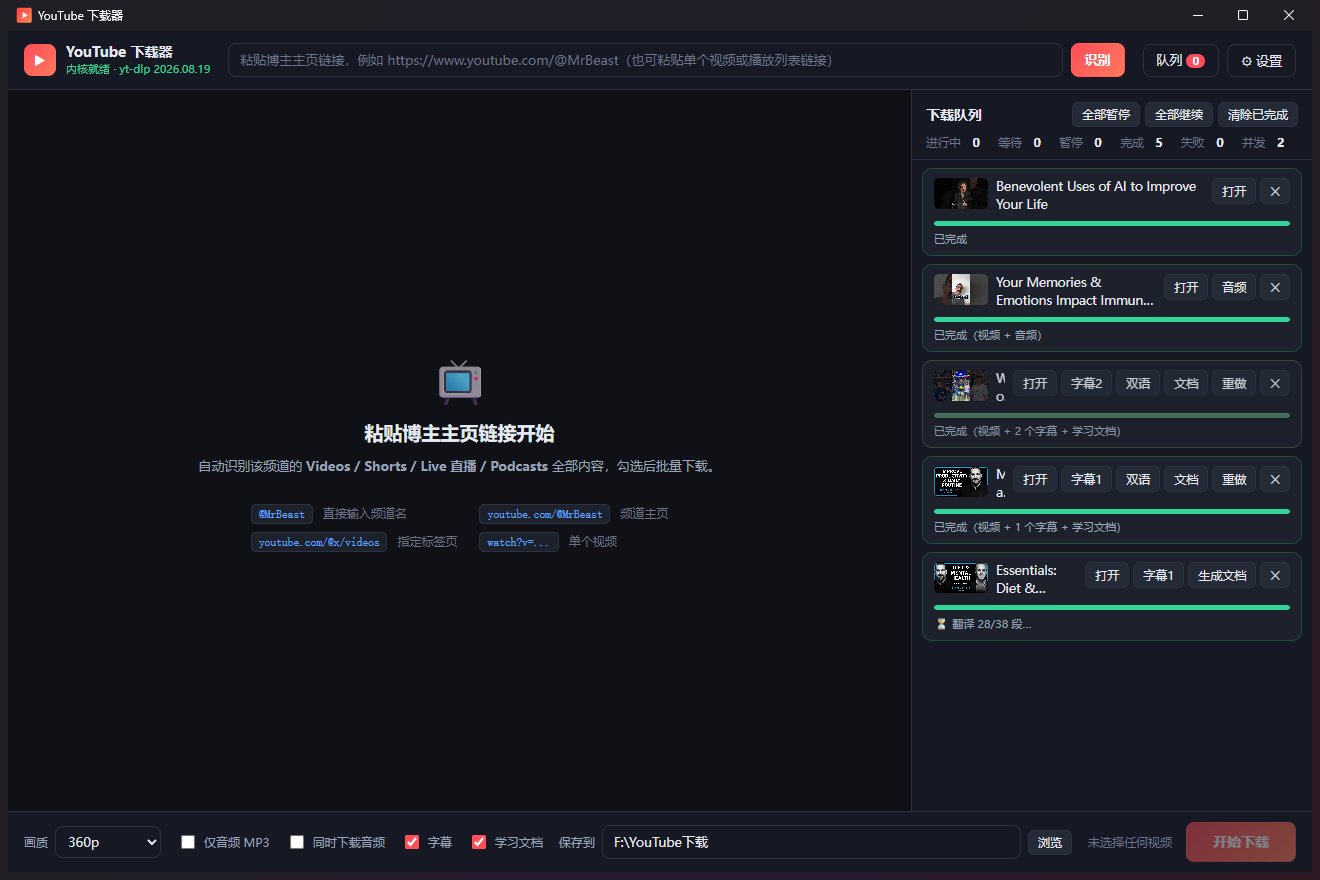
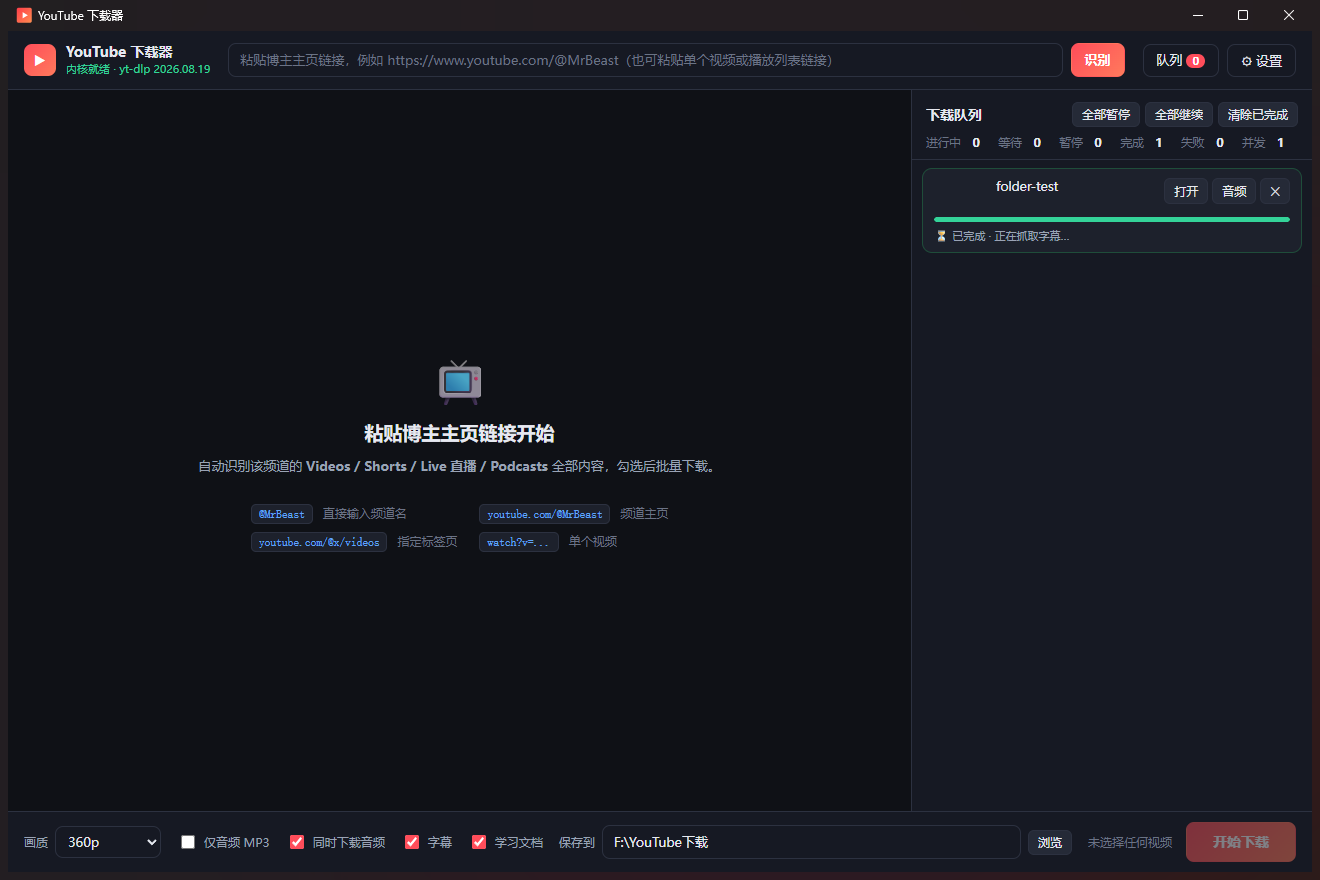
v1.3.0: 每个视频单独文件夹
- 命名模板拼成嵌套模板交给 yt-dlp 的 -o，自动建目录
- 视频/字幕/ASS/Word 共用同一模板，保证归入同一文件夹
- 设置里可关闭（organizeInFolder，默认开启）
- 模板无 %(ext)s 时退化为「模板目录/%(title)s.%(ext)s」
- 修复缩略图的行内 onerror 触发 CSP 违规（script-src 'self'），改用捕获阶段事件委托

Changed region(s): [[0.6833, 0.1841, 0.9939, 0.7364], [0.2174, 0.9511, 0.2485, 0.9818]]

diff --git a/src/renderer/app.js b/src/renderer/app.js
@@ -212,7 +212,7 @@ function rowHtml(it) {
 
   return `<div class="row ${selected ? 'selected' : ''}" data-id="${esc(it.id)}">
     <input type="checkbox" ${selected ? 'checked' : ''} data-check="${esc(it.id)}" />
-    <img class="row-thumb" loading="lazy" src="${esc(it.thumbnail || '')}" onerror="this.style.visibility='hidden'" />
+    <img class="row-thumb" loading="lazy" src="${esc(it.thumbnail || '')}" />
     <div class="row-main">
       <div class="row-title">${esc(it.title)}${badges.length ? ' ' + badges.join(' ') : ''}</div>
       <div class="row-meta">${meta.join('')}</div>
@@ -348,7 +348,7 @@ function renderQueue() {
       el.className = 'q-item';
       el.setAttribute('data-key', q.key);
       el.innerHTML = `<div class="q-top">
-          <img class="q-thumb" loading="lazy" onerror="this.style.visibility='hidden'" />
+          <img class="q-thumb" loading="lazy" />
           <div class="q-title"></div>
           <div class="q-actions"></div>
         </div>
@@ -545,6 +545,7 @@ async function loadSettingsToForm() {
   $('setConcurrency').value = s.concurrency || 2;
   $('setAutoRetry').value = s.autoRetry == null ? 3 : s.autoRetry;
   $('setFilename').value = s.filenameTemplate || '';
+  $('setOrganizeInFolder').checked = s.organizeInFolder !== false;
   $('setRateLimit').value = s.rateLimit || '';
   $('setProxy').value = s.proxy || '';
   $('setCookieFile').value = s.cookieFile || '';
@@ -665,6 +666,15 @@ function bind() {
       if (state.renderedCount < filteredItems().length) renderList(false);
     }
   });
+
+  // 缩略图加载失败时隐藏掉，避免显示成破图。
+  // 注意：CSP 是 script-src 'self'，行内 onerror="..." 会被拦截（实测报过 CSP 违规），
+  // 所以改用事件委托；error 事件不冒泡，必须用捕获阶段监听。
+  const hideBrokenImage = (e) => {
+    if (e.target && e.target.tagName === 'IMG') e.target.style.visibility = 'hidden';
+  };
+  $('list').addEventListener('error', hideBrokenImage, true);
+  $('queueList').addEventListener('error', hideBrokenImage, true);
 
   $('btnLoadMore').addEventListener('click', () => renderList(false));
 
@@ -863,6 +873,7 @@ function bind() {
       concurrency: Number($('setConcurrency').value) || 2,
       autoRetry: Number($('setAutoRetry').value) || 0,
       filenameTemplate: $('setFilename').value.trim() || '%(title)s [%(id)s].%(ext)s',
+      organizeInFolder: $('setOrganizeInFolder').checked,
       rateLimit: $('setRateLimit').value.trim(),
       proxy: $('setProxy').value.trim(),
       cookieFile: $('setCookieFile').value.trim(),

diff --git a/src/main/queue.js b/src/main/queue.js
@@ -60,6 +60,24 @@ const POSTPROCESS_LABEL = {
 
 const TERMINAL = new Set(['done', 'error', 'canceled', 'skipped']);
 
+/**
+ * 把一个文件名模板变成「文件夹/文件名」的嵌套模板。
+ * 例：%(title)s [%(upload_date>%Y-%m-%d)s].%(ext)s
+ *   → %(title)s [%(upload_date>%Y-%m-%d)s]/%(title)s [%(upload_date>%Y-%m-%d)s].%(ext)s
+ * yt-dlp 的 -o 模板里带 / 就会自动创建目录，因此视频、字幕、ASS、Word 会一起落进同一个文件夹。
+ */
+function effectiveTemplate(opts) {
+  const t = String((opts && opts.filenameTemplate) || '%(title)s [%(upload_date>%Y-%m-%d)s].%(ext)s');
+  if (opts && opts.organizeInFolder === false) return t;
+  // 用去掉扩展名后的模板作为文件夹名
+  const folder = t.replace(/\.%\(ext\)s\s*$/i, '');
+  if (!folder || folder === t) {
+    // 模板里没有 %(ext)s（yt-dlp 会自己补扩展名），退化为「模板目录/模板」
+    return `${t}/%(title)s.%(ext)s`;
+  }
+  return `${folder}/${t}`;
+}
+
 function nowIso() {
   return new Date().toISOString();
 }
@@ -273,6 +291,7 @@ class DownloadQueue extends EventEmitter {
       embedSubs: !!settings.embedSubs,
       outputDir: batchOpts.outputDir || settings.outputDir,
       filenameTemplate: settings.filenameTemplate,
+      organizeInFolder: settings.organizeInFolder !== false,
       skipDownloaded: settings.skipDownloaded !== false,
       rateLimit: settings.rateLimit || '',
       proxy: settings.proxy || '',
@@ -452,7 +471,7 @@ class DownloadQueue extends EventEmitter {
       '-P',
       o.outputDir,
       '-o',
-      o.filenameTemplate || '%(title)s [%(id)s].%(ext)s',
+      effectiveTemplate(o),
     ];
 
     if (o.skipDownloaded) a.push('--download-archive', paths.archiveFile());
@@ -753,7 +772,7 @@ class DownloadQueue extends EventEmitter {
       '-P',
       item.opts.outputDir,
       '-o',
-      item.opts.filenameTemplate || '%(title)s [%(upload_date>%Y-%m-%d)s].%(ext)s',
+      effectiveTemplate(item.opts),
     ]);
     // YouTube 绝大多数视频只有「自动生成字幕」，不开这个会出现「明明有字幕却一个都没下」
     if (item.opts.writeAutoSubs !== false) args.push('--write-auto-subs');
@@ -1069,4 +1088,5 @@ module.exports = {
   POSTPROCESS_LABEL,
   fmtUploadDate,
   uploadDateFromPath,
+  effectiveTemplate,
 };

diff --git a/src/renderer/index.html b/src/renderer/index.html
@@ -223,6 +223,11 @@
             <label>文件名模板（yt-dlp 语法）</label>
             <input id="setFilename" type="text" spellcheck="false" />
             <small class="muted">默认 %(title)s [%(upload_date&gt;%Y-%m-%d)s].%(ext)s → 标题 + 上传日期，例如 <code>我的视频 [2026-08-23].mp4</code></small>
+            <label class="check" style="margin-top: 6px"
+              ><input type="checkbox" id="setOrganizeInFolder" /><span
+                >每个视频单独建一个文件夹（文件夹名用上面的模板，该视频的视频/音频/字幕/文档全部放进去）</span
+              ></label
+            >
           </div>
 
           <div class="setting-row">

diff --git a/src/main/settings.js b/src/main/settings.js
@@ -72,6 +72,11 @@ const DEFAULTS = {
   subFormat: 'srt',
   embedSubs: false,
   filenameTemplate: DEFAULT_FILENAME_TEMPLATE,
+  /**
+   * 每个视频单独建一个文件夹（文件夹名 = 命名模板渲染结果），
+   * 该视频的视频/音频/字幕/ASS/学习文档全部放进去，避免下载目录被大量文件铺满。
+   */
+  organizeInFolder: true,
   skipDownloaded: true,
   rateLimit: '', // 例如 '2M'，空 = 不限速
   proxy: '',

diff --git a/CHANGELOG.md b/CHANGELOG.md
@@ -1,5 +1,39 @@
 # 更新日志
 
+## v1.3.0 — 每个视频单独一个文件夹（2026-09-11）
+
+下载时自动建一个**以命名模板渲染结果命名**的文件夹，该视频的所有产物都放进去：
+
+```
+F:\YouTube下载\World’s Largest Tennis Match [2026-08-23]\
+  ├ World’s Largest Tennis Match [2026-08-23].mp4
+  ├ World’s Largest Tennis Match [2026-08-23].mp3
+  ├ World’s Largest Tennis Match [2026-08-23].en.srt
+  ├ World’s Largest Tennis Match [2026-08-23].zh-en.ass
+  └ World’s Largest Tennis Match [2026-08-23].学习文档.docx
+```
+
+### 实现方式
+
+把文件名模板拼成**嵌套模板**交给 yt-dlp 的 `-o`——模板里带 `/` 时 yt-dlp 会自动创建目录：
+
+```
+%(title)s [%(upload_date>%Y-%m-%d)s].%(ext)s
+  → %(title)s [%(upload_date>%Y-%m-%d)s]/%(title)s [%(upload_date>%Y-%m-%d)s].%(ext)s
+```
+
+关键点是**视频、字幕、ASS、Word 必须用同一个模板**，否则会散落在不同层级。
+字幕步骤单独跑一次 yt-dlp，所以那处也要用转换后的模板；ASS 与 Word 的路径由视频路径推导，自然落在同一目录。
+
+模板里没有 `%(ext)s` 时退化为「模板目录/%(title)s.%(ext)s」；设置里可关闭该行为（勾选项默认开启）。
+
+### 说明
+
+- 文件夹名与文件名**同名**（都来自模板），这样单独把文件拷出去也自带标识信息
+- 旧版本下载的平铺文件**不会被自动移动**；如需整理可手动归入文件夹，或等后续版本加一个「整理到文件夹」的功能
+
+---
+
 ## v1.2.0 — 中英不同色 ASS 双语字幕（2026-09-11）
 
 生成 `标题 [日期].zh-en.ass`，**中英分别设色 + 黑描边**，播放器（PotPlayer / VLC / MPV）直接加载。
